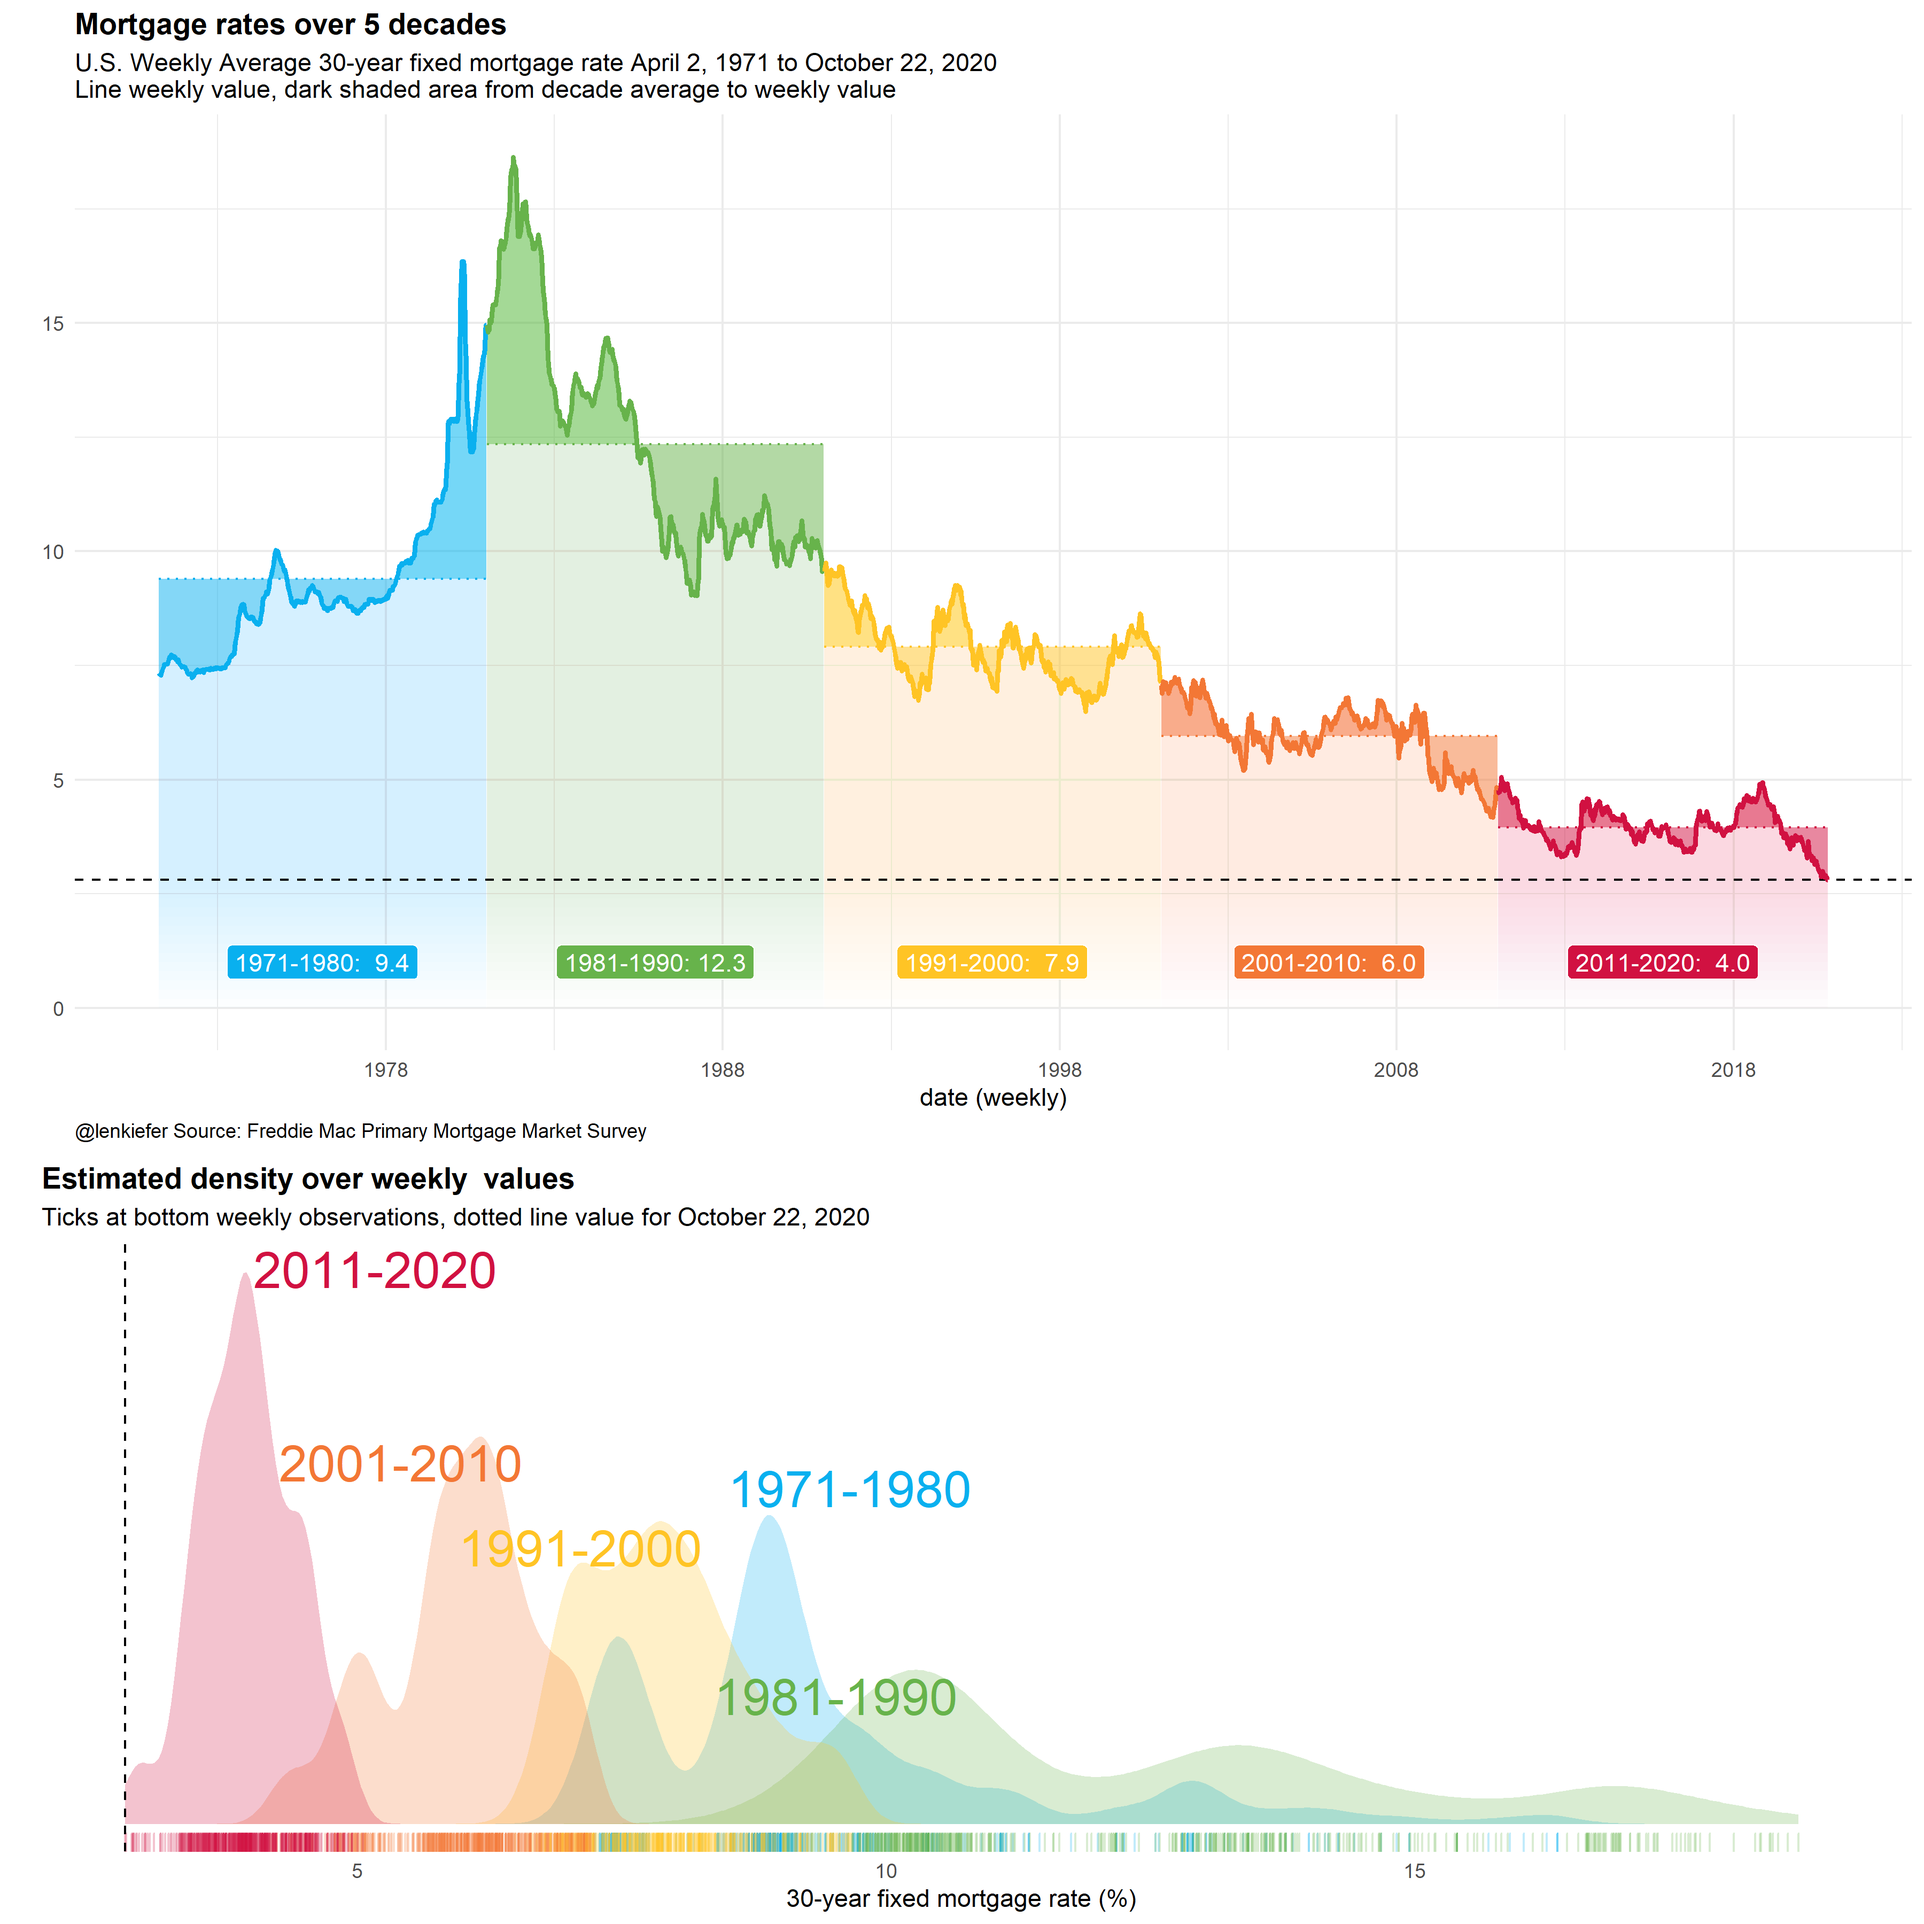
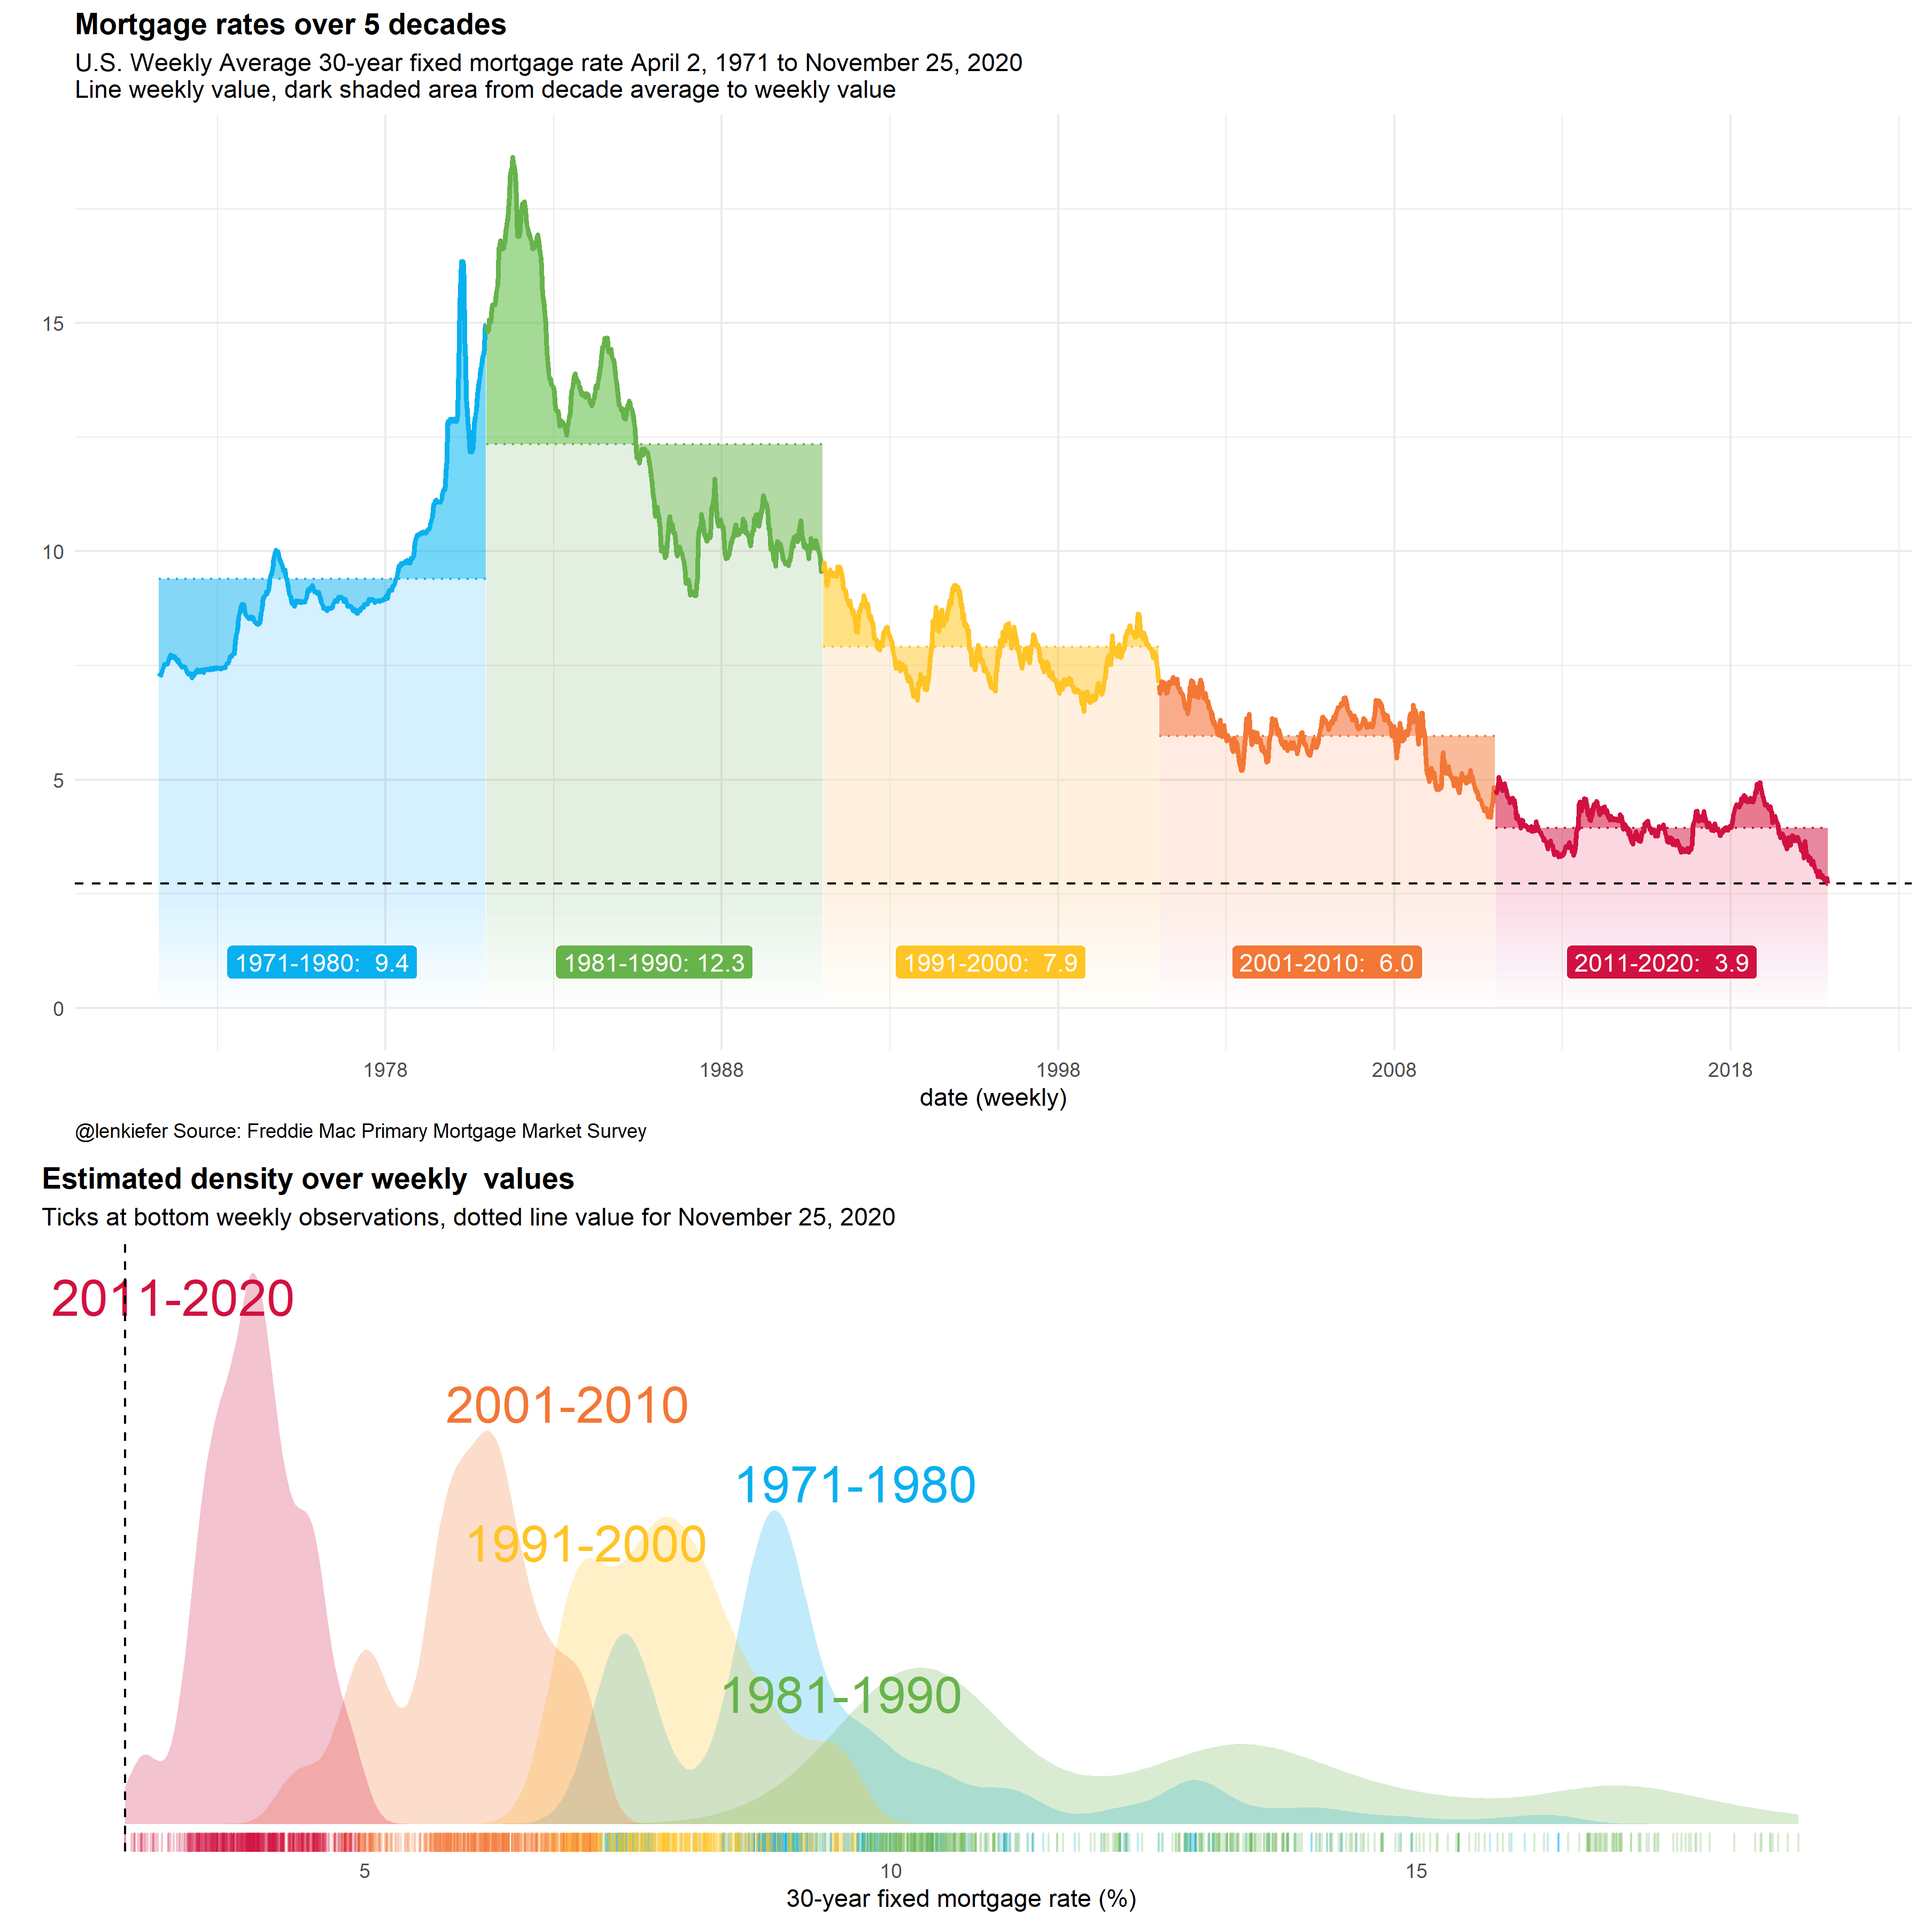
update viz 11 25 2020

diff --git a/2020/04/20/updated-favorite-data-visualizations/index.html b/2020/04/20/updated-favorite-data-visualizations/index.html
@@ -252,15 +252,15 @@
 <p>Your favorite chart isn’t here? Let me know and maybe I can add it.</p>
 <div id="mortgage-rates" class="section level1">
 <h1>Mortgage Rates</h1>
-<p><em>Last updated 2020-10-23</em></p>
+<p><em>Last updated 2020-11-25</em></p>
 <p>Post <a href="../../../../2019/10/10/visualizing-consumer-price-inflation-and-mortgage-rates/">Visualizing consumer price inflation and mortgage rates</a></p>
 <p><img src="../../../../img/favorites/mtg.png" style="width:550px"></p>
-<p><em>Last updated 2020-10-23</em></p>
+<p><em>Last updated 2020-11-25</em></p>
 <p>Post <a href="../../../../2020/04/30/mortgage-rates-hit-a-record-low/">Mortgage rates hit a record low</a>
-<strong>Another record low on 2020-10-22</strong></p>
+<strong>Another record low on 2020-11-25</strong></p>
 <p><img src="../../../../img/favorites/mtg_trend.png" style="width:550px"></p>
 <p><img src="../../../../img/favorites/mtg_trend.gif" style="width:550px"></p>
-<p><em>Last updated 2020-10-23</em></p>
+<p><em>Last updated 2020-11-25</em></p>
 <p>Post <a href="../../../../2020/10/23/chart-style-1979/">Chart Style 1979</a></p>
 <p><img src="../../../../img/favorites/bw_dist.png" style="width:550px"></p>
 </div>
@@ -274,7 +274,7 @@
 </div>
 <div id="jobless-claims-animations" class="section level1">
 <h1>Jobless claims animations</h1>
-<p><em>Last updated 2020-11-19</em></p>
+<p><em>Last updated 2020-11-25</em></p>
 <p>Animated versions of my jobless claims charts.</p>
 <p>Post: <a href="../../../../2020/04/03/us-labor-market-update-april-2020/">Labor Market Update</a></p>
 <p><img src="../../../../img/favorites/ICSA.gif" style="width:550px"></p>
@@ -283,7 +283,7 @@
 </div>
 <div id="new-home-sales" class="section level1">
 <h1>New Home Sales</h1>
-<p><em>Last updated 2020-10-26</em></p>
+<p><em>Last updated 2020-11-25</em></p>
 <p>Post: <a href="../../../../2019/07/24/housing-usually-heats-up-in-summer/">Housing usually heats up in summer</a></p>
 <p><img src="../../../../img/favorites/nhs_grid.png" style="width:550px"></p>
 <p>Post: <a href="http://lenkiefer.com/2017/04/26/housing-data-uncertainty/">Visualizing uncertainty in housing data</a></p>
